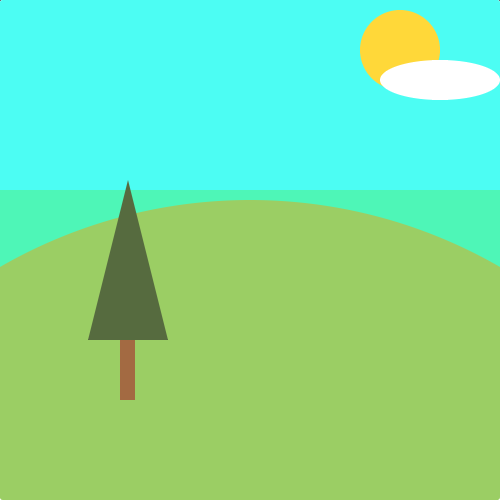
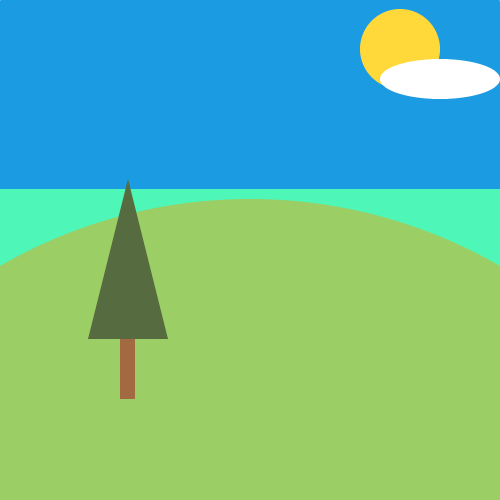
Changed from lightblue to blue in Day 2

diff --git a/lib/challenges/summer_camp/day_two.js b/lib/challenges/summer_camp/day_two.js
@@ -12,10 +12,10 @@ module.exports = {
     summerCamp  : true,
     steps       : generate.fromSequence([
         [
-            'Today is a beautiful day - **type** `background lightblue`',
-            'background lightblue',
+            'Today is a beautiful day - **type** `background blue`',
+            'background blue',
             [
-                [ 'background', { color: palette.lightblue } ]
+                [ 'background', { color: palette.blue } ]
             ]
         ],
         [
